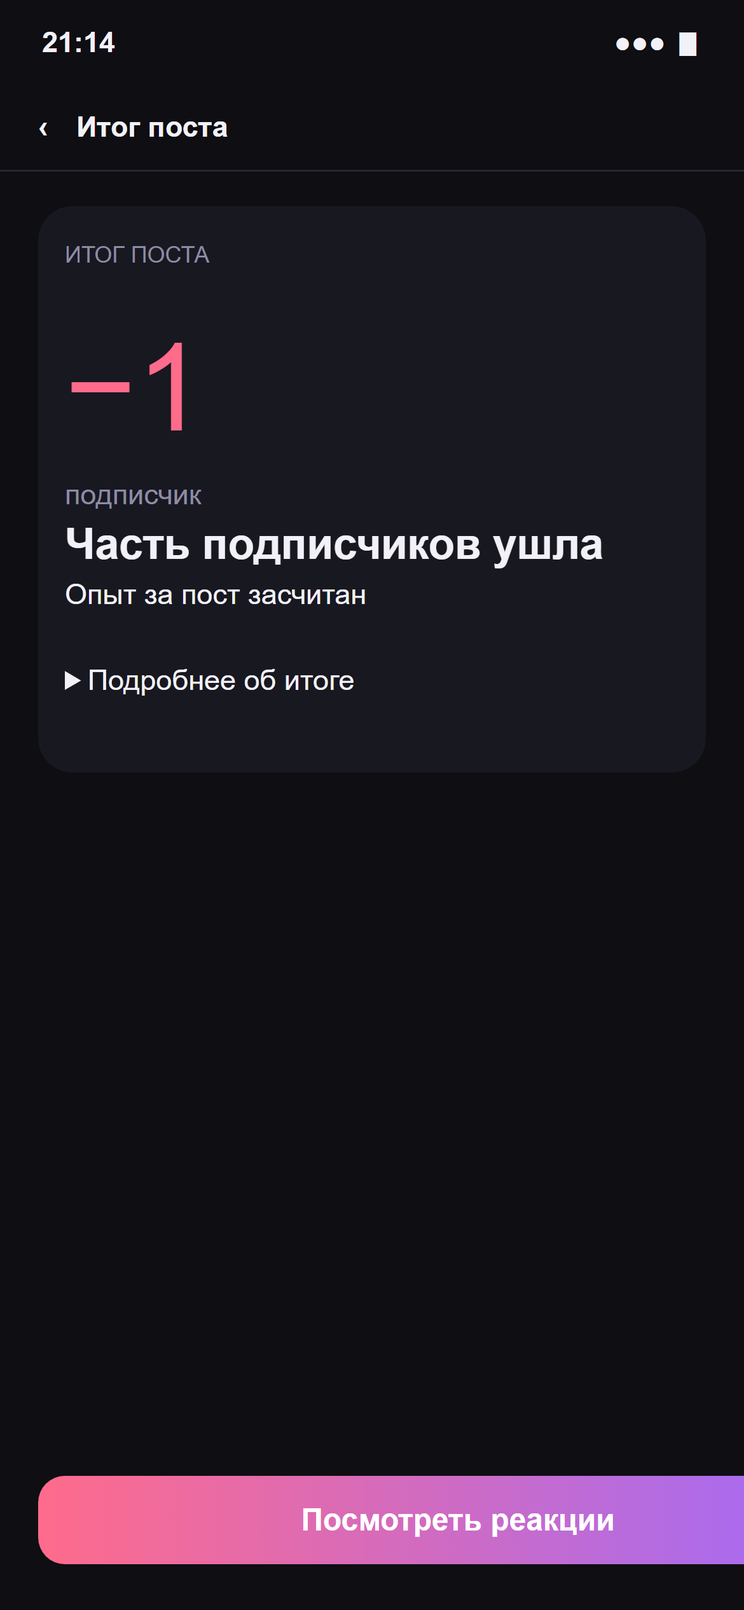
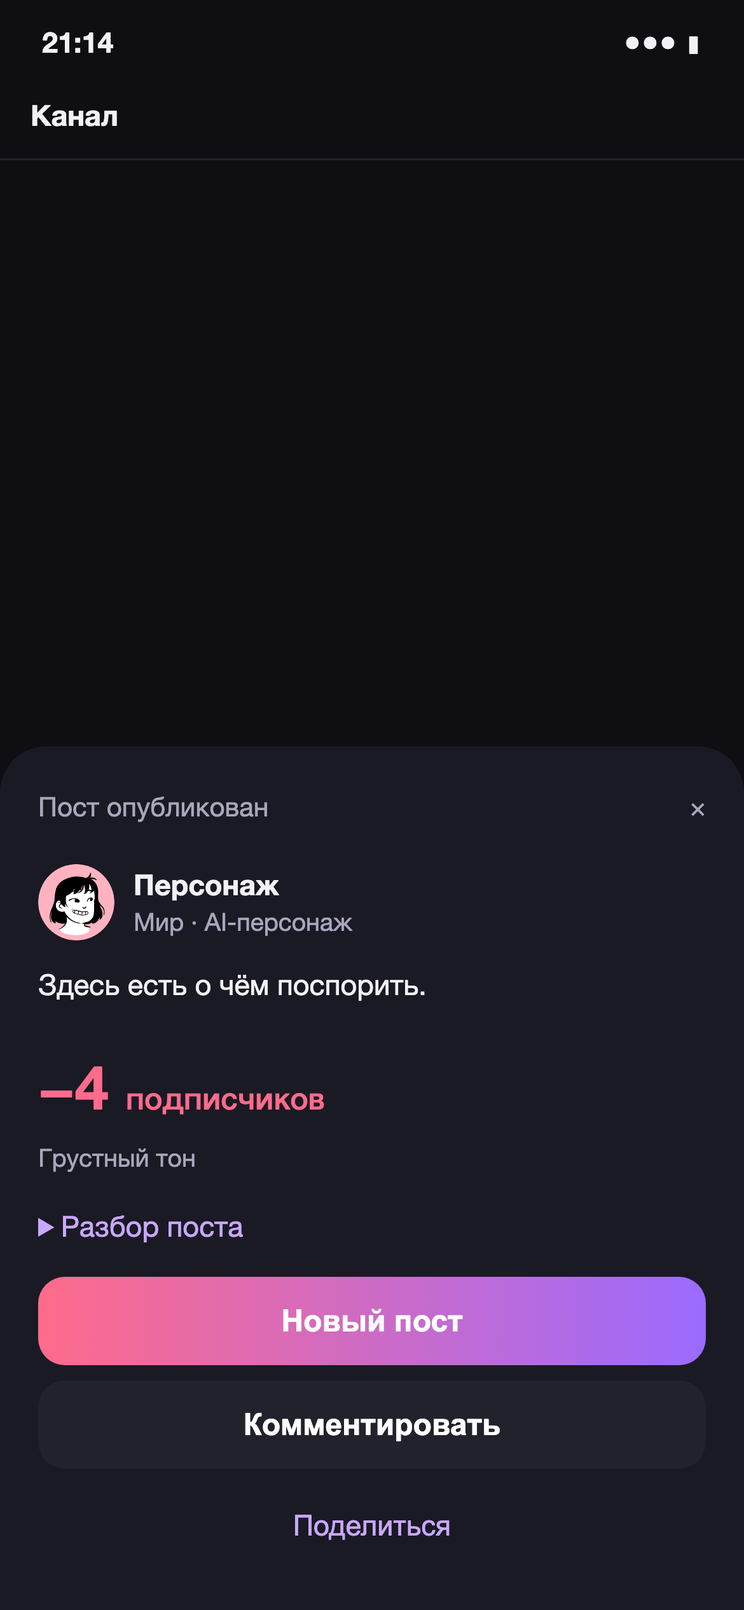
fix: карточка результата, ownWords и пороги темы #297 (#298)
* feat: show NPC reply in post result and keep idea provenance #297

* fix: remove progression metadata and simplify topic scoring #297

---------

diff --git a/frontend/src/screens/turn.tsx b/frontend/src/screens/turn.tsx
@@ -10,7 +10,7 @@ import { inTelegram } from '../telegram'
 import { Avatar, BottomCTA, Button, Comment, Gift, Ribbon, Sheet, TopBar, EnergyBadge, Whisper, fmt, plural } from '../ui'
 import { ChannelHead } from './onboarding'
 import { track } from '../app/log'
-import { contentOf } from '../api/worldContent'
+import { contentOf, worldOf } from '../api/worldContent'
 import { apiBaseUrl, runtimeConfig } from '../app/runtimeConfig'
 import { useReferralLink } from '../app/useReferralLink'
 import { register } from '.'
@@ -31,7 +31,7 @@ function Compose() {
   const text = draft.text
   const [durable, setDurable] = useState(true)
   const edit = (value: string, fromIdea = false) => {
-    const next = { ...draft, text: value, ownWords: fromIdea ? false : draft.ownWords || value !== draft.text }
+    const next = { ...draft, text: value, ownWords: fromIdea ? false : value.length === 0 || draft.ownWords }
     setDraft(next); setDurable(savePostDraft(key, next))
   }
   useEffect(() => { setDurable(savePostDraft(key, draft)) }, [key, draft])
@@ -84,7 +84,7 @@ function Live() {
       setTyping(null)
       track('post_result', { delta: created.result.delta, viral: created.result.viral, flop: created.result.flop })
       const result = latest ? { ...created.result, completedWants: latest.wants.filter(want => want.done && p.wants.some(before => before.id === want.id && !before.done)).map(({ id, text, reward }) => ({ id, text, reward })) } : created.result
-      nav.replace(result.viral ? '02-5_viral' : result.flop ? '02-4_flop' : '02-3_result', { result, post: created.post, commentPromise })
+      nav.replace(result.viral ? '02-5_viral' : result.flop ? '02-4_flop' : '02-3_result', { result, post: created.post, commentPromise, predictedAuthorId: created.predictedAuthorId })
     })() }, 0)
     return () => { active = false; clearTimeout(start) }
   }, []) // eslint-disable-line react-hooks/exhaustive-deps
@@ -148,55 +148,66 @@ function useCount(n: number, ms = 800) {
 const haptic = (kind: 'success' | 'warning' | 'light') => { if (!inTelegram) return; try { if (kind === 'light') hapticFeedback.impactOccurred.ifAvailable('light'); else hapticFeedback.notificationOccurred.ifAvailable(kind) } catch { /* вне Telegram */ } }
 
 function ResultCard({ r, post: initialPost, theme }: { r: PostResult; post: Post; theme: 'normal' | 'flop' | 'viral' }) {
-  const nav = useNav()
+  const nav = useNav(); const player = usePlayer()
   const [post, setPost] = useState(initialPost)
   const [commentFailed, setCommentFailed] = useState(false)
   const commentPromise = nav.params.commentPromise as Promise<Post | null> | undefined
   useEffect(() => {
     let active = true
-    void commentPromise?.then(saved => { if (active) { if (saved) setPost(saved); else setCommentFailed(true) } })
+    void commentPromise?.then(saved => { if (active) { if (saved) setPost(saved); else setCommentFailed(true) } }, () => { if (active) setCommentFailed(true) })
     return () => { active = false }
   }, [commentPromise])
-  const closeButton = useRef<HTMLButtonElement>(null)
-  useEffect(() => { closeButton.current?.focus(); const close = (event: KeyboardEvent) => { if (event.key === 'Escape') nav.replace('03-5_stage') }; document.addEventListener('keydown', close); return () => document.removeEventListener('keydown', close) }, [nav])
+  const closeButton = useRef<HTMLButtonElement>(null), dialog = useRef<HTMLDivElement>(null)
+  useEffect(() => {
+    closeButton.current?.focus()
+    const keyboard = (event: KeyboardEvent) => {
+      if (event.key === 'Escape') nav.replace('03-5_stage')
+      if (event.key !== 'Tab') return
+      const items = dialog.current?.querySelectorAll<HTMLElement>('button:not(:disabled),summary,a[href]')
+      if (!items?.length) return
+      const first = items[0], last = items[items.length - 1]
+      if (event.shiftKey && document.activeElement === first) { event.preventDefault(); last.focus() }
+      else if (!event.shiftKey && document.activeElement === last) { event.preventDefault(); first.focus() }
+    }
+    document.addEventListener('keydown', keyboard)
+    return () => document.removeEventListener('keydown', keyboard)
+  }, [nav])
   const viral = theme === 'viral'
-  const bestComment = r.bestComment ?? post.comments[0]
+  const stars = contentOf(player.world).stars
+  const comment = post.comments.find(item => item.star && !item.hidden)
+  const fallback = r.bestComment
+  const actor = stars.find(item => `Star_${item.id}` === comment?.authorId || item.avatarSeed === (comment?.avatar ?? fallback?.avatar) || `Star_${item.id}` === nav.params.predictedAuthorId)
+  const commentText = comment?.text ?? fallback?.text
   const shown = useCount(Math.abs(r.delta))
   const additive = r.whys.filter(why => /^[+−-]\d+(?:[.,]\d+)?$/.test(why.value))
   const explainsDelta = additive.length > 0 && additive.reduce((sum, why) => sum + Number(why.value.replace('−', '-').replace(',', '.')), 0) === r.delta
-  useEffect(() => { haptic(r.delta >= 0 ? 'success' : 'warning'); const ts = r.whys.map((_, i) => setTimeout(() => haptic('light'), 850 + i * 150)); return () => ts.forEach(clearTimeout) }, [r])
+  const explanation = r.delta === 0 ? 'Число подписчиков не изменилось.' : r.delta < 0 ? r.whys.find(why => !why.value.startsWith('×') && why.label !== 'В тему')?.label ?? r.headline : r.headline
+  useEffect(() => { haptic(r.delta >= 0 ? 'success' : 'warning') }, [r])
   return (
     <div className="screen no-tab">
       <ChannelHead />
       <div className="pad" style={{ opacity: .45 }}><div className="card"><div className="small muted">только что</div>{post.text}<div style={{ marginTop: 8 }}>{post.reactions.map(reaction => <span key={reaction.emoji} className="react">{reaction.emoji} {reaction.count}</span>)}<span className="small muted" style={{ float: 'right' }}>👁 {fmt(r.views)}</span></div></div></div>
       <div className="sheet-bg" style={{ background: 'rgba(8,8,12,.55)' }}>
-        <div className="sheet" style={{ background: viral ? 'linear-gradient(170deg,#1B2A4A,#2A1236 60%,#1A1A24)' : '#1A1A24', position: 'relative' }}>
+        <div ref={dialog} role="dialog" aria-modal="true" aria-label="Пост опубликован" className={`sheet post-result${viral ? ' post-result--viral' : ''}`}>
           <button ref={closeButton} className="result-close" aria-label="Закрыть итог и вернуться в канал" onClick={() => nav.replace('03-5_stage')}>×</button>
-          <div className="small" style={{ paddingRight: 40, letterSpacing: '.06em', color: viral ? 'var(--gift)' : 'var(--muted2)' }}>{viral ? '🌊 ПОСТ ЗАЛЕТЕЛ В РЕКИ' : 'ИТОГ ПОСТА'}</div>
-          <div style={{ fontSize: 64, fontWeight: 900, lineHeight: 1.1 }} className={r.delta >= 0 ? 'up' : 'down'}>{r.delta >= 0 ? '+' : '−'}{fmt(shown)}</div>
-          <div className="muted2" style={{ marginBottom: 12 }}>{plural(shown, 'подписчик', 'подписчика', 'подписчиков')}</div>
-          <div style={{ fontSize: 18, fontWeight: 800, marginBottom: 12 }}>{r.delta < 0 ? "Часть подписчиков ушла" : r.delta === 0 ? "Подписчиков столько же" : viral ? r.headline : "Твой пост заметили ✨"}</div>
-          {viral && <div className="confetti" aria-hidden>{Array.from({ length: 18 }, (_, i) => <i key={i} style={{ left: `${(i * 53) % 100}%`, animationDelay: `${(i % 6) * 0.12}s`, background: ['#FF6B8B', '#9B6BFF', '#FFD66B', '#6BFFB8'][i % 4] }} />)}</div>}
-
-          {commentFailed && <p className="small muted" role="status">Пост опубликован, но ответ звезды пока не появился.</p>}
-          <div className="result-awards" aria-live="polite">{r.ribbons.map(award => <Ribbon key={award.title} icon={award.icon} title={award.title} sub={award.sub} />)}</div>
-          <details className="result-details"><summary>Разбор поста</summary>          <div>{r.whys.map((w, i) => <span key={w.label} className="chip pop" style={{ background: '#22222D', animationDelay: `${0.85 + i * 0.15}s` }}>{({ star: '⭐', brave: '🔥', humor: '😂', topic: '🎯', reach: '👁' } as Record<string, string>)[w.icon] ?? w.icon} {w.label} {(!/^[+−-]/.test(w.value) || explainsDelta) && <b className={/^[+×]/.test(w.value) ? 'up' : 'down'}>{w.value}</b>}</span>)}</div>
-          {bestComment && <div className="row" style={{ margin: '8px 0 12px' }}><Avatar seed={bestComment.avatar} size={28} mode="default" /><span className="small">«{bestComment.text}»</span></div>}
+          <div className="post-result-title">Пост опубликован</div>
+          <section className="post-result-reaction" aria-label="Ответ персонажа">
+            <div className="row"><Avatar seed={comment?.avatar ?? actor?.avatarSeed ?? fallback?.avatar} label={comment?.author ?? actor?.name ?? 'Персонаж'} size={40} mode="default" /><div><strong>{comment?.author ?? actor?.name ?? 'Персонаж'}</strong><div className="small muted">{worldOf(player.world).title} · AI-персонаж</div></div></div>
+            {commentText ? <p>{commentText}</p> : <p className="muted" role="status">{commentFailed || !commentPromise ? 'Ответ персонажа пока не загрузился.' : 'Персонаж готовит ответ…'}</p>}
+          </section>
+          <div className={`post-result-delta ${r.delta > 0 ? 'up' : r.delta < 0 ? 'down' : ''}`}>{r.delta > 0 ? '+' : r.delta < 0 ? '−' : ''}{fmt(shown)} <span>{plural(Math.abs(r.delta), 'подписчик', 'подписчика', 'подписчиков')}</span></div>
+          <p className="small muted">{explanation}</p>
+          <details className="result-details"><summary>Разбор поста</summary><div>{r.whys.map((why, i) => <span key={`${why.label}:${i}`} className="chip">{({ star: '⭐', brave: '🔥', humor: '😂', topic: '🎯', reach: '👁' } as Record<string, string>)[why.icon] ?? why.icon} {why.label} {(!/^[+−-]/.test(why.value) || explainsDelta) && <b className={/^[+×]/.test(why.value) ? 'up' : 'down'}>{why.value}</b>}</span>)}</div>
+            <div className="result-awards">{r.ribbons.map(award => <Ribbon key={award.title} icon={award.icon} title={award.title} sub={award.sub} />)}</div>
           </details>
-          {viral ? <>
-            <Button onClick={() => nav.push('02-7_share', { post })}>Поделиться залётом</Button>
-            <div className="small" style={{ textAlign: 'center', margin: '8px 0', color: 'var(--gift)' }}>Позови друга в свой мир</div>
-            <Button secondary onClick={() => nav.replace('03-5_stage')}>В канал</Button>
-          </> : <>
-            <Button onClick={() => nav.replace('02-6_thread', { post, commentPromise })}>Посмотреть реакции</Button>
-            {theme === 'normal' && <><button onClick={() => nav.push('02-7_share', { post })} aria-label="Поделиться постом" className="result-share">↗ Поделиться</button>
-              </>}
-          </>}
+          <div className="post-result-actions"><Button onClick={() => nav.replace('02-1_compose')}>Новый пост</Button><Button secondary onClick={() => nav.replace('02-6_thread', { post, commentPromise, focusReply: true })}>Комментировать</Button></div>
+          <button onClick={() => nav.push('02-7_share', { post })} className="result-share">Поделиться</button>
         </div>
       </div>
     </div>
   )
 }
+
 const Result = () => { const n = useNav(); const r = (n.params.result as PostResult) ?? results.normal; return <ResultCard r={r} post={(n.params.post as Post) ?? { ...firstPost, id: r.postId, text: (n.params.text as string) ?? firstPost.text }} theme="normal" /> }
 const Flop = () => { const n = useNav(); const r = (n.params.result as PostResult) ?? results.flop; return <ResultCard r={r} post={(n.params.post as Post) ?? { ...firstPost, id: r.postId, text: (n.params.text as string) ?? 'сегодня сдавала пробник по ЕГЭ, всё сложно' }} theme="flop" /> }
 const Viral = () => { const n = useNav(); const r = (n.params.result as PostResult) ?? results.viral; return <ResultCard r={r} post={(n.params.post as Post) ?? { ...firstPost, id: r.postId, text: (n.params.text as string) ?? firstPost.text }} theme="viral" /> }
@@ -270,6 +281,15 @@ function Thread() {
     })
     return () => { active = false }
   }, [commentPromise, load, threadKey])
+  const initialReplyFocused = useRef('')
+  useEffect(() => {
+    if (!nav.params.focusReply || load !== 'ready' || !post || initialReplyFocused.current === threadKey) return
+    const target = post.comments.find(comment => comment.star && !comment.hidden && stars.some(star => `Star_${star.id}` === comment.authorId))
+    if (!target) return
+    initialReplyFocused.current = threadKey
+    setDraft(current => current.commentId || current.submitted ? current : { ...current, commentId: target.id, requestId: crypto.randomUUID() })
+    requestAnimationFrame(() => document.querySelector<HTMLInputElement>('.thread-reply-input')?.focus())
+  }, [post, load, threadKey, nav.params.focusReply])
   const postAuthor = stars.find(star => `Star_${star.id}` === post?.authorId)
   const isStarComment = (comment?: CommentT) => !!comment?.star && !comment.hidden && stars.some(star => `Star_${star.id}` === comment.authorId)
   const target = post?.comments.find(comment => comment.id === draft.commentId)
@@ -399,8 +419,14 @@ function Share() {
   const player = usePlayer()
   const { link, error: linkError, retry } = useReferralLink()
   const post = (nav.params.post as Post | undefined) ?? firstPost
-  const text = `Мой пост в Реках 🌊 А ты кем будешь в ${contentOf(player.world).where}?`
-  const toChat = () => { if (!link) return; track('share', { to: 'chat' }); if (inTelegram) shareURL.ifAvailable(link, text); else window.open(`https://t.me/share/url?url=${encodeURIComponent(link)}&text=${encodeURIComponent(text)}`) }
+  const text = `${post.text}\n\nМой пост в Реках 🌊`
+  const [shareError, setShareError] = useState('')
+  const toChat = async () => {
+    if (!link) return
+    track('share', { to: 'chat' }); setShareError('')
+    try { if (inTelegram) shareURL.ifAvailable(link, text); else if (navigator.share) await navigator.share({ title: 'Реки', text, url: link }); else window.open(`https://t.me/share/url?url=${encodeURIComponent(link)}&text=${encodeURIComponent(text)}`, '_blank', 'noopener,noreferrer') }
+    catch (cause) { if (!(cause instanceof DOMException && cause.name === 'AbortError')) setShareError('Не получилось открыть отправку. Попробуй ещё раз.') }
+  }
   // Публичную картинку 9:16 Telegram загружает без заголовков авторизации.
   const storyCardUrl = new URL(`${apiBaseUrl ?? ''}/cards/story/${encodeURIComponent(player.id)}/${encodeURIComponent(post.id)}.png`, location.origin).toString()
   const toStory = () => { if (!link) return; track('share', { to: 'story' }); if (inTelegram) shareStory.ifAvailable(storyCardUrl, { text, widgetLink: { url: link, name: 'Играть' } }) }
@@ -409,7 +435,7 @@ function Share() {
       <TopBar onBack={nav.back} title="Поделиться" />
       <div className="pad">
         <div style={{ background: 'linear-gradient(160deg,#2A1236,#141420)', borderRadius: 14, padding: 14, marginBottom: 12 }}>
-          <div className="small" style={{ color: 'var(--gift)' }}>РЕКИ · ПОСТ ЗАЛЕТЕЛ 🌊</div>
+          <div className="small" style={{ color: 'var(--gift)' }}>РЕКИ · МОЙ ПОСТ</div>
           <div style={{ margin: '8px 0' }}>{post.text}</div>
           <div className="small muted">👁 {fmt(post.views)}</div>
           <div className="small" style={{ marginTop: 8 }}>а ты кем будешь в {contentOf(player.world).where}? <b>▶ Играть</b></div>
@@ -418,7 +444,8 @@ function Share() {
         <div className="small muted">Telegram откроет список твоих чатов. Мы его не видим и никому не пишем сами.</div>
       </div>
       {linkError && <div className="pad" role="alert">Не удалось получить твою ссылку.<Button secondary onClick={retry}>Попробовать снова</Button></div>}
-      <BottomCTA disabled={!link} secondDisabled={!link} second="＋ В сторис" onSecond={toStory} main="Отправить в чат" onMain={toChat} />
+      {shareError && <p className="pad small" role="alert">{shareError}</p>}
+      <BottomCTA disabled={!link} secondDisabled={!link} second={inTelegram && shareStory.isAvailable() ? '＋ В сторис' : undefined} onSecond={toStory} main="Отправить в чат" onMain={() => void toChat()} />
     </div>
   )
 }

diff --git a/frontend/src/theme.css b/frontend/src/theme.css
@@ -433,3 +433,18 @@ summary:focus-visible { outline: 2px solid var(--lilac); outline-offset: 4px; bo
 .crystal-button { border:0; cursor:pointer; }
 
 .delete-trigger, .top button.delete-trigger { border: 1px solid #F06473; border-radius: 10px; padding: 4px 8px; }
+
+/* #297: saved publication first, then the next action. */
+.post-result { position:relative; background:#1A1A24; overflow-wrap:anywhere; }
+.post-result--viral { background:linear-gradient(170deg,#1B2A4A,#2A1236 60%,#1A1A24); }
+.post-result-title { padding-right:44px; margin-bottom:20px; color:var(--muted2); font-size:14px; }
+.post-result-reaction { margin-bottom:20px; }
+.post-result-reaction .row > div:last-child { min-width:0; }
+.post-result-reaction p { margin-top:12px; line-height:1.5; white-space:pre-wrap; overflow-wrap:anywhere; }
+.post-result-delta { font-size:32px; font-weight:800; line-height:1.2; }
+.post-result-delta > span { font-size:16px; font-weight:500; }
+.post-result > .small { margin-top:6px; }
+.post-result .result-details { margin:16px 0; }
+.post-result .result-details .chip { margin-top:8px; background:#22222D; }
+.post-result-actions { display:grid; gap:8px; }
+.post-result .result-share { min-height:44px; margin:8px auto 0; }

diff --git a/docs/design/src/journey_v37.py b/docs/design/src/journey_v37.py
@@ -1,0 +1,10 @@
+# #297: every saved post gets the same next actions, without waiting for AI.
+def publication297(delta, reason, reply='Здесь есть о чём поспорить.', state='ready'):
+    reaction = reply if state == 'ready' else 'Персонаж готовит ответ…' if state == 'pending' else 'Ответ персонажа пока не загрузился.'
+    number = ('+' if delta > 0 else '−' if delta < 0 else '') + str(abs(delta))
+    return P(f'''<div class="top"><b>Канал</b></div><div style="position:absolute;bottom:0;left:0;right:0;padding:22px 20px;background:#1A1A24;border-radius:24px 24px 0 0"><div style="display:flex;justify-content:space-between;color:#A9A6BD;font-size:14px;margin-bottom:20px"><span>Пост опубликован</span><span>×</span></div><div style="display:flex;gap:10px;align-items:center">{ava('М','',40)}<div><b>Персонаж</b><div class="small muted">Мир · AI-персонаж</div></div></div><p style="line-height:1.5;margin:12px 0 20px">{reaction}</p><div style="font-size:32px;font-weight:800;color:{'#6BFFB8' if delta>0 else '#FF6B8B' if delta<0 else '#F2F1F7'}">{number} <span style="font-size:16px;font-weight:500">подписчиков</span></div><p class="small muted" style="margin-top:6px">{reason}</p><details style="margin:16px 0"><summary style="color:#C9A8FF">Разбор поста</summary><p class="small">В тему · Старт канала ×2</p></details><button class="btn" style="width:100%;box-sizing:border-box;margin-bottom:8px">Новый пост</button><button class="btn" style="width:100%;box-sizing:border-box;background:#22222D">Комментировать</button><button style="display:block;margin:8px auto 0;min-height:44px;background:none;border:0;color:#C9A8FF;font-size:15px">Поделиться</button></div>''')
+S['02-3_result'] = publication297(38, 'Канал растёт')
+S['02-4_flop'] = publication297(-4, 'Грустный тон')
+S['02-5_viral'] = publication297(620, 'Пост залетел')
+S['02-3a_result_waiting'] = publication297(38, 'Канал растёт', state='pending')
+S['02-3b_result_error'] = publication297(38, 'Канал растёт', state='failed')

diff --git a/backend/src/Reki.Application/Posts/CreatePostCommand/Score/PostTextAnalysis.cs b/backend/src/Reki.Application/Posts/CreatePostCommand/Score/PostTextAnalysis.cs
@@ -30,15 +30,22 @@ internal sealed partial class PostTextAnalysis(
     public async Task<double[]> SkillsAsync(
         GamePost post,
         World world,
+        bool ownWords,
         CancellationToken cancellationToken)
     {
         string[] hypotheses = ["Автор смело выражает своё мнение.", "Текст содержит юмор или шутку."];
         var scores = await nli.ScoreAsync(post.Text, hypotheses, cancellationToken);
 
+        if (!ownWords)
+        {
+            return [scores[0].Entailment, scores[1].Entailment, 1d];
+        }
+
         var postVector = await postEmbedder.GenerateVectorAsync(post, cancellationToken: cancellationToken);
         var worldVector = await worldEmbedder.GenerateVectorAsync(world, cancellationToken: cancellationToken);
         var similarity = TensorPrimitives.CosineSimilarity(postVector.Span, worldVector.Span);
-        var topic = similarity >= context.Current.Balance.Difficulties[world.Difficulty].TopicMinCosine ? 1d : 0d;
+        var topic = similarity >= (float)context.Current.Balance.Difficulties[world.Difficulty].TopicMinCosine ? 1d : 0d;
+
         return [scores[0].Entailment, scores[1].Entailment, topic];
     }
 

diff --git a/backend/src/Reki.Application/Posts/CreatePostCommand/Score/PostScorer.cs b/backend/src/Reki.Application/Posts/CreatePostCommand/Score/PostScorer.cs
@@ -10,10 +10,10 @@ internal sealed class PostScorer(
     PostTextAnalysis analysis,
     IEnumerable<IFlopTest> flopTests)
 {
-    public async Task<PostScore> ScoreAsync(GamePost post, World world, GameBalance balance, CancellationToken cancellationToken)
+    public async Task<PostScore> ScoreAsync(GamePost post, World world, GameBalance balance, bool ownWords, CancellationToken cancellationToken)
     {
         context.Current = new PostScoringData(world, balance, cancellationToken);
-        var skills = await analysis.SkillsAsync(post, world, cancellationToken);
+        var skills = await analysis.SkillsAsync(post, world, ownWords, cancellationToken);
         var emotion = await analysis.ClassifyAsync(ClassifierModels.EmotionModel, post.Text);
         var result = await flopTests.OrderBy(test => test.Priority)
             .ToAsyncEnumerable()

diff --git a/backend/src/Reki.Application/Posts/CreatePostCommand/CreatePostCommandHandler.cs b/backend/src/Reki.Application/Posts/CreatePostCommand/CreatePostCommandHandler.cs
@@ -70,7 +70,7 @@ internal sealed class CreatePostCommandHandler(
             1,
             false,
             false);
-        var score = await scorer.ScoreAsync(post, world, currentBalance, cancellationToken);
+        var score = await scorer.ScoreAsync(post, world, currentBalance, command.OwnWords, cancellationToken);
         var starId = await stars.GetRelevantCommenterAsync(world, post);
         var flopReason = score.FlopReason ?? (score.Topic > 0 ? null : "off_topic");
         var flop = flopReason is not null;

diff --git a/docs/design/src/build_journey.py b/docs/design/src/build_journey.py
@@ -343,6 +343,7 @@ exec(open(os.path.join(D, 'journey_v34.py'), encoding='utf-8').read())  # #268 p
 
 exec(open(os.path.join(D, 'journey_v35.py'), encoding='utf-8').read())  # #291 Web Push
 exec(open(os.path.join(D, 'journey_v36.py'), encoding='utf-8').read())  # #291 compact browser offers
+exec(open(os.path.join(D, 'journey_v37.py'), encoding='utf-8').read())  # #297 publication result
 
 CH = os.environ.get('CHROME_BIN') or shutil.which('google-chrome') or shutil.which('chrome')
 if not CH and os.name == 'nt':

diff --git a/docs/game-flow.md b/docs/game-flow.md
@@ -112,9 +112,9 @@
 
 **Решено 08.11.2026 (#245):** флоу поста упрощён по образцу комментариев. Один `POST /posts` создаёт пост с ML-оценками, прогрессией и обязательным комментатором; энергия и результат сохраняются сразу. Frontend показывает результат анимацией и последовательно вызывает общий SSE генерации комментария с `sourceCommentId=null`, затем replies для сохранения корневой реплики. LLM пишет только текст. Сбой комментария не отменяет публикацию. Старые publications/moderation/status удалены; отдельного replay, конкурентных проверок, polling и recovery публикации нет. Это заменяет двухшаговое решение 06.10.2026.
 
-**Уточнено 11.11.2026:** пороги снижены до 0.35 / 0.5 / 0.65 для лёгкой, средней и сложной игры соответственно, чтобы чаще засчитывать смысловую близость поста к миру.
+**Решено 13.11.2026 (#297):** пороги темы — easy 0.35, normal 0.45, hard 0.55. При ownWords=false Topic безусловно равен 1, потому что готовая идея должна засчитываться по теме независимо от последующих правок; при true тема оценивается по cosine. Остальные причины провала сохраняются.
 
-**Уточнено 08.11.2026 (#245, ML):** «В тему» определяется по cosine эмбеддингов поста и описания мира (название, описание, роль игрока), потому что здесь нужна смысловая близость. Порог задаёт `difficulties.<difficulty>.topic_min_cosine`: easy — 0.35, normal — 0.5, hard — 0.65; драма его не меняет. При cosine >= порога оценка «в тему» равна 1, ниже порога — 0. Эта оценка участвует в качестве и опыте; при единице разбор показывает отметку «В тему», при нуле — «Не в тему». Смелость и юмор по-прежнему оценивает NLI. Для собственных повторов HNSW выбирает ближайшие кандидаты: наличие хотя бы одного кандидата с cosine не ниже порога означает повтор. Проверки чисел и NLI не выполняются. Пост анализируется целиком, без нарезки на окна; это приближённый поиск, а не полный перебор истории.
+**Уточнено 08.11.2026 (#245, ML):** «В тему» определяется по cosine эмбеддингов поста и описания мира (название, описание, роль игрока), потому что здесь нужна смысловая близость. Порог задаёт `difficulties.<difficulty>.topic_min_cosine`: easy — 0.35, normal — 0.45, hard — 0.55; драма его не меняет. При ownWords=true и cosine >= порога оценка «в тему» равна 1, ниже порога — 0; при ownWords=false она всегда равна 1. Эта оценка участвует в качестве и опыте; при единице разбор показывает отметку «В тему», при нуле — «Не в тему». Смелость и юмор по-прежнему оценивает NLI. Для собственных повторов HNSW выбирает ближайшие кандидаты: наличие хотя бы одного кандидата с cosine не ниже порога означает повтор. Проверки чисел и NLI не выполняются. Пост анализируется целиком, без нарезки на окна; это приближённый поиск, а не полный перебор истории.
 
 **Решено 08.11.2026 (#245):** пост не в тему (`Topic = 0`) приводит к отпискам по общей формуле, потому что несоответствие теме мира теперь является самостоятельной причиной потери аудитории. Если другие проверки не нашли причину, в `GamePost.FlopReason` сохраняется `off_topic`; иначе сохраняется уже выбранная причина. Применяется один flop без сложения потерь и без залёта.
 
@@ -313,3 +313,9 @@ Manifest задаёт стабильный id `/`, start_url `/`, scope `/`, dis
 Публичный ключ берётся из runtime config `webPushPublicKey` и соответствует отправителю backend #293. Пустой ключ означает недоступность подключения; приватный ключ фронту не передаётся. При открытии настроек/возврате в них и при входе в каталог читается разрешение; существующая подписка сохраняется за текущим авторизованным игроком. Подтверждение предыдущего аккаунта не переносится. Подписка на сервере не гарантирует доставку или прочтение.
 
 `push-sw.js` показывает системное уведомление и открывает игру; существующее окно фокусируется без навигации, сохраняя редактор. Внешние URL из payload не открываются. Worker не кеширует страницы/API, не перезагружает приложение и не реализует офлайн-режим. Реальная доставка проверяется отдельно на Telegram/iOS/Android.
+
+### Происхождение текста и карточка результата — решение 13.11.2026 (#297)
+
+ownWords хранит происхождение черновика: новый текст — true; успешная вставка готовой идеи — false. Частичное редактирование, дописывание, замены и пробелы сохраняют false. Только фактическая полная очистка (`text.length === 0`) или кнопка «Очистить» возвращают true. Введённый вручную текст, совпавший с идеей, остаётся true. Отмена замены ничего не меняет; флаг хранится вместе с текстом для игрока и мира и одинаков в POST /posts и post_publish. При false нет ×1,3 за свои слова. Это правило относится и к будущим фоновым идеям #264, период их генерации не меняется.
+
+После любого поста, включая минус и залёт: компактное «Пост опубликован», имя/аватар и комментарий персонажа, фактический прирост со знаком либо 0 и краткое объяснение, раскрываемый «Разбор поста», «Новый пост», «Комментировать», менее заметное «Поделиться». Разбор показывает причины и отметку темы, полученные в ответе API; отдельную раскладку множителей не добавляем. Ожидание или ошибка комментария показываются на его месте и не блокируют новый пост или закрытие. × возвращает в канал, «Новый пост» сохраняет черновик и проверку энергии, «Комментировать» открывает тред именно этого поста с выбором комментария звезды, «Поделиться» использует существующий сценарий его шаринга. Сохранённые результаты и публикации не пересчитываются. Редизайн поддерживает те же правила в отдельной ветке; новая карточка не зависит от #264.

diff --git a/docs/backend-spec.md b/docs/backend-spec.md
@@ -61,7 +61,7 @@
 
 ## 3. ML-оценка поста
 
-`INliScorer` даёт независимые Entailment-оценки смелости и юмора. Для оценки «в тему» `TensorPrimitives.CosineSimilarity` рассчитывает cosine между эмбеддингами GamePost и World. Сериализатор мира использует название, описание и роль игрока; вектор мира не сохраняется в доменной модели. Порог `difficulties.<difficulty>.topic_min_cosine` равен 0.35/0.5/0.65 для easy/normal/hard и не зависит от драмы. При cosine >= порога Topic = 1, ниже порога Topic = 0. Эта оценка участвует в quality и опыте; при Topic = 1 разбор показывает отметку «В тему», при Topic = 0 — «Не в тему». Topic = 0 вызывает отписки по общей формуле; при отсутствии другой причины в `GamePost.FlopReason` сохраняется `off_topic`. NotEntailment не означает доказанное противоречие. Quality остаётся средним трёх оценок с существующим ограничением 0…1; основной навык получает прежний основной опыт, остальные — побочный. Модификаторы опыта и роста сохраняются.
+`INliScorer` даёт независимые Entailment-оценки смелости и юмора. Для оценки «в тему» `TensorPrimitives.CosineSimilarity` рассчитывает cosine между эмбеддингами GamePost и World. Сериализатор мира использует название, описание и роль игрока; вектор мира не сохраняется в доменной модели. Порог `difficulties.<difficulty>.topic_min_cosine` равен 0.35/0.45/0.55 для easy/normal/hard и не зависит от драмы. По решению 13.11.2026 (#297), при ownWords=false Topic безусловно равен 1 без проверки совпадения с идеей. Только при ownWords=true cosine >= порога даёт Topic = 1, ниже порога Topic = 0. Эта оценка участвует в quality и опыте; при Topic = 1 разбор показывает отметку «В тему», при Topic = 0 — «Не в тему». Topic = 0 вызывает отписки по общей формуле; при отсутствии другой причины в `GamePost.FlopReason` сохраняется `off_topic`. NotEntailment не означает доказанное противоречие. Quality остаётся средним трёх оценок с существующим ограничением 0…1; основной навык получает прежний основной опыт, остальные — побочный. Модификаторы опыта и роста сохраняются.
 
 `IClassifier` возвращает токсичность и эмоции. Проверки `IFlopTest` выявляют агрессивную ругань (`min(insult, anger)` собственной речи без оформленных цитат), близкий собственный повтор, выраженную грусть и тревогу. Для повторов `$vectorSearch` с HNSW выбирает ограниченный набор кандидатов в истории того же игрока/мира. WorldId/AuthorId входят в pre-filter поисковой стадии и индекс как filter-поля. Из vectorSearchScore восстанавливается raw cosine для существующего порога. Наличие хотя бы одного кандидата выше порога означает повтор (`history.Count > 0`); проверок чисел и NLI нет. Полного перебора истории и запасного exact-поиска нет. Пост передаётся моделям целиком, без нарезки на окна; NLI нужен только для смелости и юмора. Пороги сложности/драмы, приоритеты и формула небольшой потери находятся в `balance.json:difficulties` и [ml-scoring.md](ml-scoring.md).
 
@@ -363,3 +363,7 @@ World.Id — WorldId<Guid>, TemplateId — WorldId?, BSON UUID Standard subtype 
 Фронт использует сгенерированный из backend #293 метод `registerWebPush` и DTO `WebPushSubscriptionRequest` через существующий авторизованный transport. Успешное сохранение — только после `200`. Публичный `webPushPublicKey` берётся из runtime config и соответствует отправителю; приватный ключ фронту не передаётся. Нет дополнительных GET статуса/ключа или DELETE.
 
 Worker принимает `{title: "Реки", body: Notification.Content, url: "/"}`, ограничивает переход origin приложения и показывает фиксированное название «Реки». В Telegram frontend не вызывает requestWriteAccess и не проверяет статус бота. Backend-расписание, каналы, миграция и отправители этим frontend PR не меняются.
+
+### Результат и ownWords (#297, 13.11.2026)
+
+ownWords — сохраняемое происхождение черновика, не результат сравнения текста с подсказкой. false задаёт Topic=1 до расчёта quality, опыта, отметки темы и off_topic; проверки angry_abuse, near_copy, sad_tone, anxious_tone и безопасность остаются независимыми. Бонус собственных слов применяется только при true. Расчёт прогрессии и форма HTTP-контракта сохранены; result.whys содержит прежние причины и отметку темы, без дополнительной раскладки множителей. POST /posts сохраняет пост и возвращает результат до генерации комментария; ошибка последующего ответа персонажа не отменяет пост и не запускает его повторную публикацию. Существующие данные не пересчитываются.

diff --git a/docs/analytics.md b/docs/analytics.md
@@ -41,7 +41,7 @@
 | `screen_view`, `screen_leave` | смена экрана | screen, prev, ms (время на экране) |
 | `tap` | вкладка, главная / вторая кнопка экрана | id (`tab`, `cta_main`, `cta_second`), to |
 | `onboarding_step` | шаги онбординга | step (age / world / channel / world_settings / done), ok, world, address, star |
-| `post_publish`, `post_result` | пост и его итог | len, own_words; delta, viral, flop |
+| `post_publish`, `post_result` | пост и его итог | len, own_words (происхождение черновика); delta, viral, flop |
 | `limit_reached` | упёрся в лимит | |
 | `plus_interest`, `plus_bonus_only` | 04-2 | |
 | `invite_sent`, `share` | позвать, поделиться | to (chat / story) |
@@ -134,3 +134,7 @@ Stickiness — сумма активных профиле-дней / число 
 
 
 С 2.5.0 (#215) world_id — UUID экземпляра в формате D; template_id обозначает происхождение, difficulty — механическую сложность. С #245 post_scored и связанные награды записываются после успешного commit создания поста; difficulty берётся для расчёта в POST. Генерация первого комментария идёт отдельно и не отправляет post_scored повторно. Существующие игровые оценки brave/humor/topic и quality сохраняются в post_scored; тексты, векторы и сырые выходы классификаторов токсичности/эмоций не передаются. Старые обозначения миров больше не отправляются как world/BalanceKey. Исторические внешние события не переписываются. При сравнении периодов нормализовать строковые GUID world_id (с дефисами и без) и учитывать, что ранние составные ID заменены детерминированными UUID по алгоритму миграции; исходные старые события сохраняются.
+
+### own_words — решение 13.11.2026 (#297)
+
+В post_publish передаётся тот же флаг, что в POST /posts. Готовая идея устанавливает false; любые неполные правки сохраняют false. Только фактическое пустое поле или «Очистить» возвращают true. Ручной ввод совпадающего текста не переводит true в false. Отмена замены и восстановление черновика сохраняют флаг. Доля false измеряет использование вставленной готовой идеи, а не отсутствие правок; прямое сравнение с прежней семантикой «любая правка — свои слова» требует учёта даты изменения. Новые события не вводятся.

diff --git a/docs/reviews/297/README.md b/docs/reviews/297/README.md
@@ -1,0 +1,17 @@
+# Проверка #297
+
+Скриншоты настоящего текущего интерфейса в headless Chrome с изолированным API и синтетическим аккаунтом. Числа и комментарии на этих картинках — управляемые QA-состояния, не результаты production и не обещание удержания.
+
+| Обычный | Минус | Ожидание | Ошибка комментария |
+|---|---|---|---|
+| [normal.png](normal.png) | [flop.png](flop.png) | [waiting.png](waiting.png) | [error.png](error.png) |
+
+Ручной проход: происхождение ownWords при правках, пробелах, очистке, отмене, перезагрузке и смене игрока/мира; одинаковый флаг в API и post_publish; одна публикация; обычный/минус/залёт/ноль/ожидание/ошибка; переходы, выбор адресата, сохранение нового черновика при позднем AI, нативный share и Telegram fallback с текстом этого поста; 320/390/430/1280 px. Проверка энергии перед отправкой сохранена.
+
+Отдельно на настоящем QA backend с изолированной БД и настоящими ML-клиентами: на hard посторонний текст с ownWords=false получил «В тему» и прирост +45 без бонуса своих слов; самостоятельный посторонний текст сохранил оценку «Не в тему», минус −1 и бонус своих слов. QA-аккаунт и его миры/посты удалены. Это проверка правил, а не повторный расчёт пользовательской выборки. В .NET проверено равенство каждому порогу и ближайшее меньшее float-значение.
+
+Редизайн изменён и проверяется отдельным PR от актуальной интеграции #284; его стили не переносятся в текущий интерфейс. Новые тесты в репозиторий не добавлялись. Физические телефоны и production этим проходом не использовались.
+
+Дополнительно проверены текст 200% на 320px без горизонтального скролла и закрытие Escape.
+
+Существующая фикстура world-drafts обновлена с устаревшего balanceKey на действующий templateId; число и сценарии тестов сохранены.
